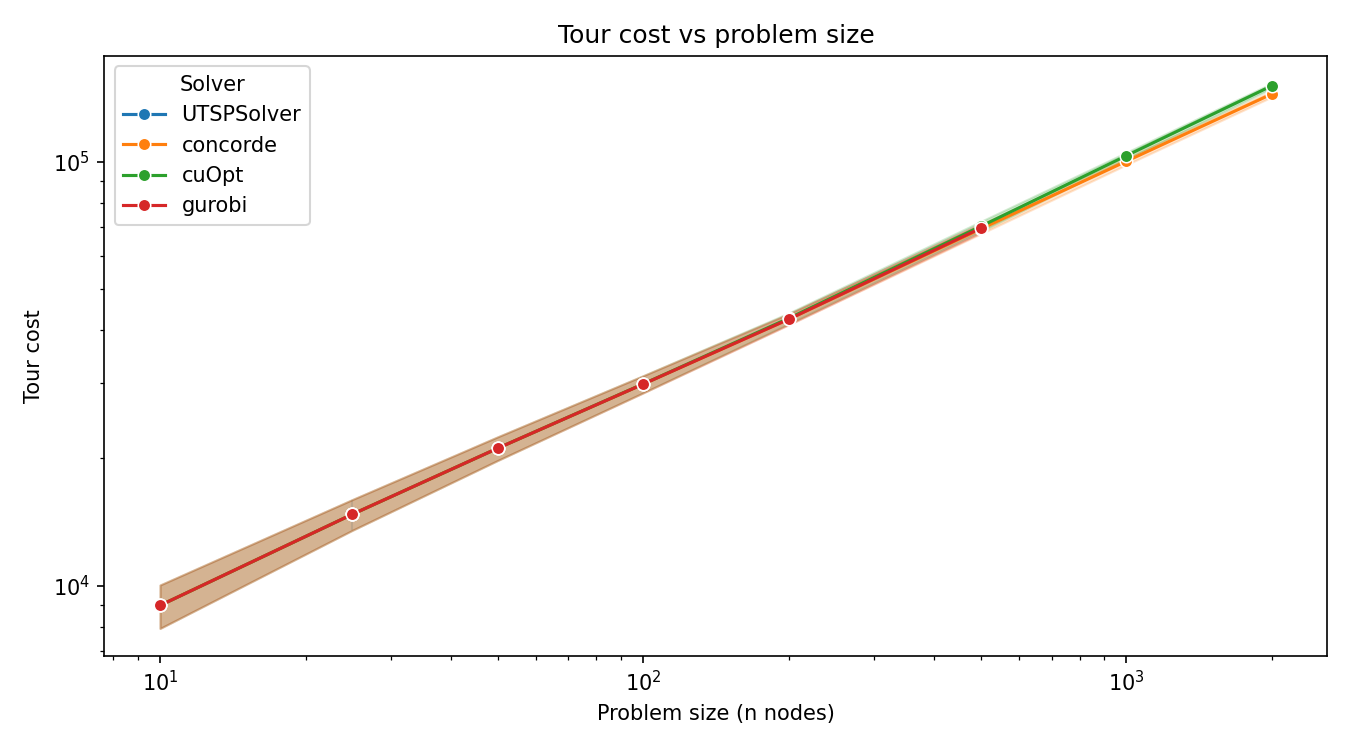
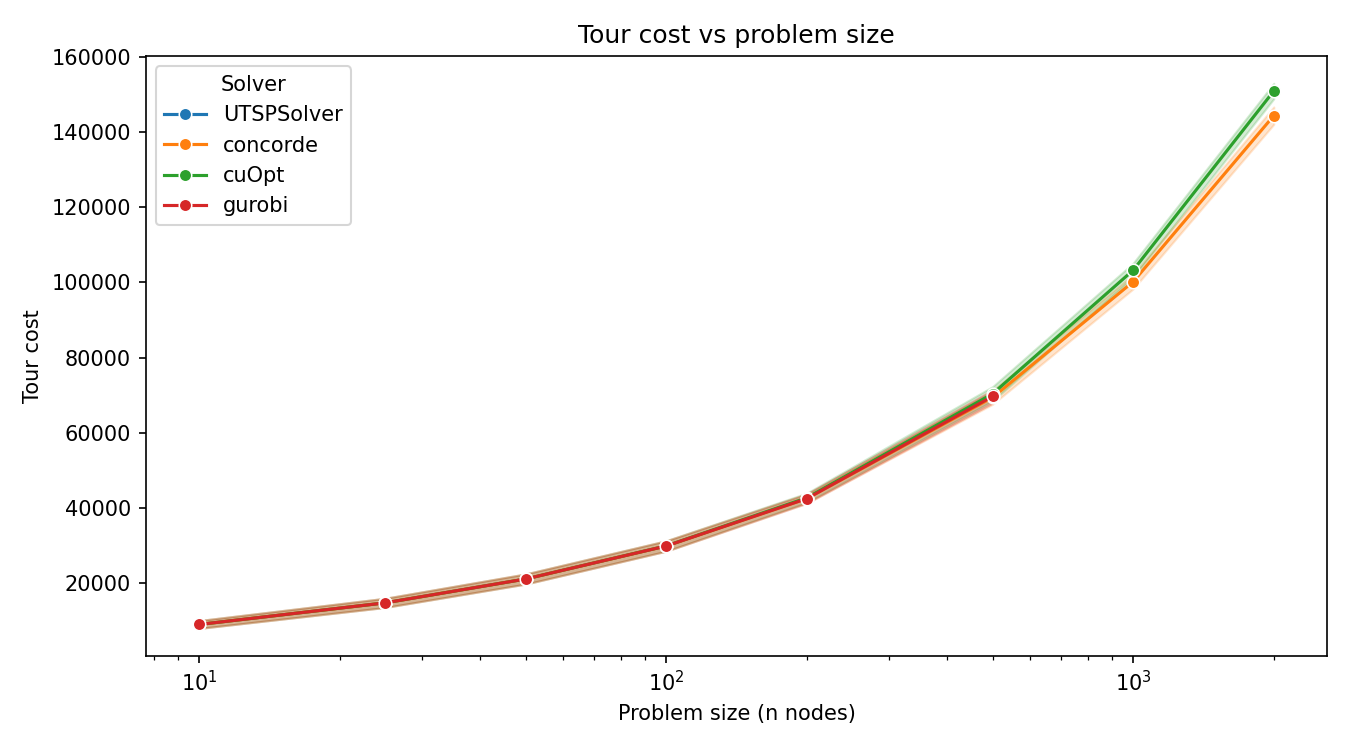
removed log scale from y axis

diff --git a/src/visualization/viz_benchmark_results.py b/src/visualization/viz_benchmark_results.py
@@ -41,7 +41,7 @@ def plot_cost_vs_size(df: pd.DataFrame, out_dir: Path) -> None:
         ax=ax,
     )
     ax.set_xscale("log")
-    ax.set_yscale("log")
+    # ax.set_yscale("log")
     ax.set_xlabel("Problem size (n nodes)")
     ax.set_ylabel("Tour cost")
     ax.set_title("Tour cost vs problem size")
@@ -71,7 +71,7 @@ def plot_time_vs_size(df: pd.DataFrame, out_dir: Path) -> None:
         ax=ax,
     )
     ax.set_xscale("log")
-    ax.set_yscale("log")
+    # ax.set_yscale("log")
     ax.set_xlabel("Problem size (n nodes)")
     ax.set_ylabel("Time to solve (s)")
     ax.set_title("Solve time vs problem size")
@@ -110,14 +110,18 @@ def plot_optimality_gap(
             break
 
     if ref_df is None:
-        logger.warning("No reference solver results found; skipping optimality gap plot.")
+        logger.warning(
+            "No reference solver results found; skipping optimality gap plot."
+        )
         return
 
     # Join and compute gap
     other = data[data["solver"] != used_ref].copy()
     merged = other.merge(ref_df, on="problem", how="inner")
     if merged.empty:
-        logger.warning("No overlapping problems between solvers and reference; skipping gap plot.")
+        logger.warning(
+            "No overlapping problems between solvers and reference; skipping gap plot."
+        )
         return
 
     merged["optimality_gap_pct"] = (
